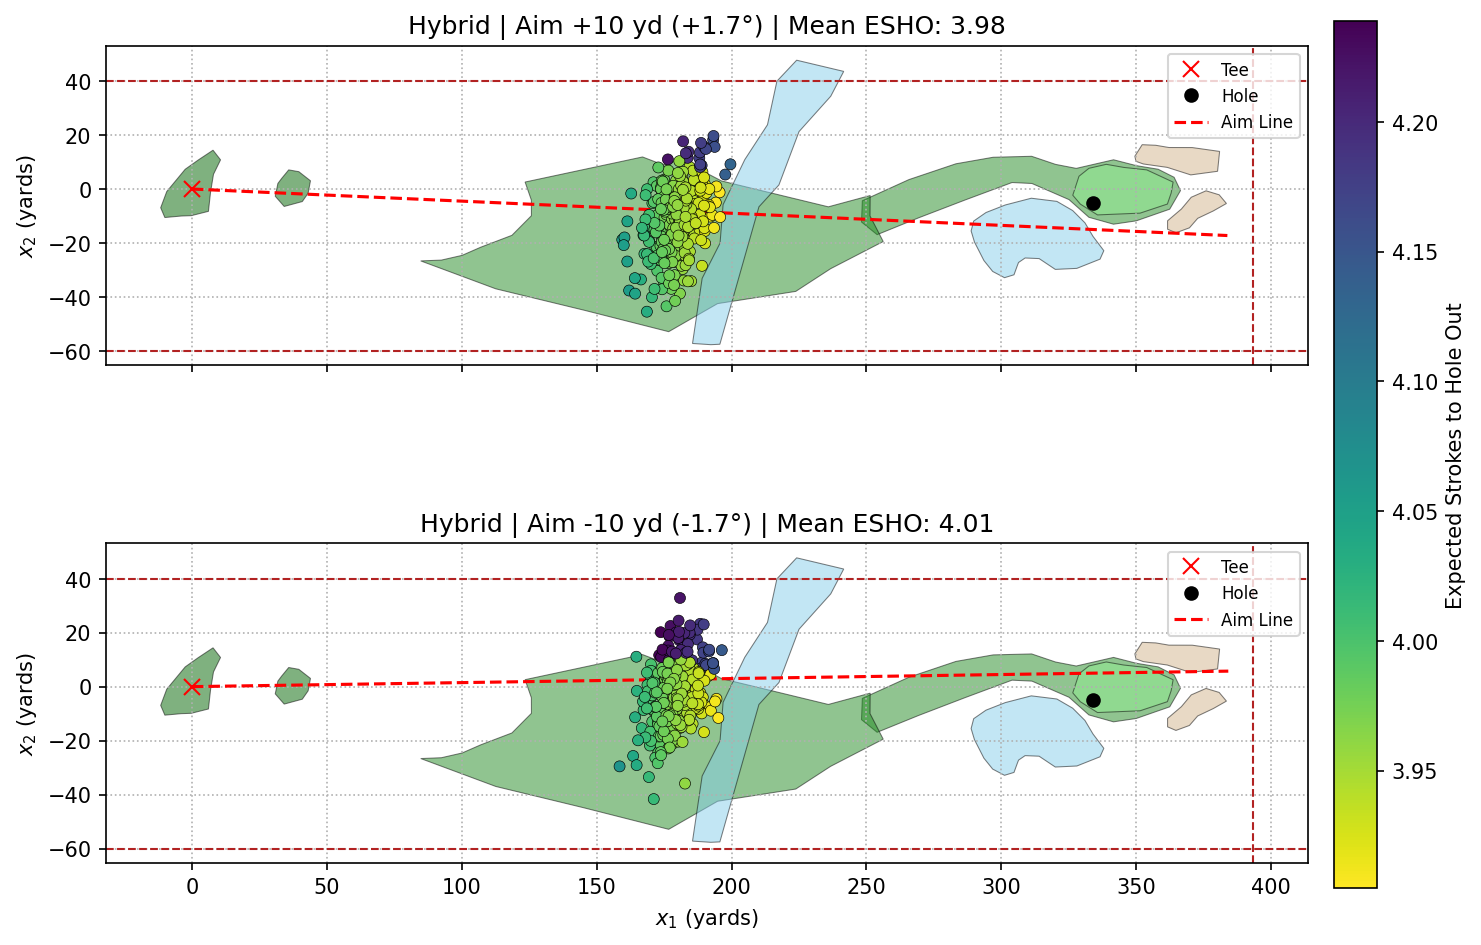
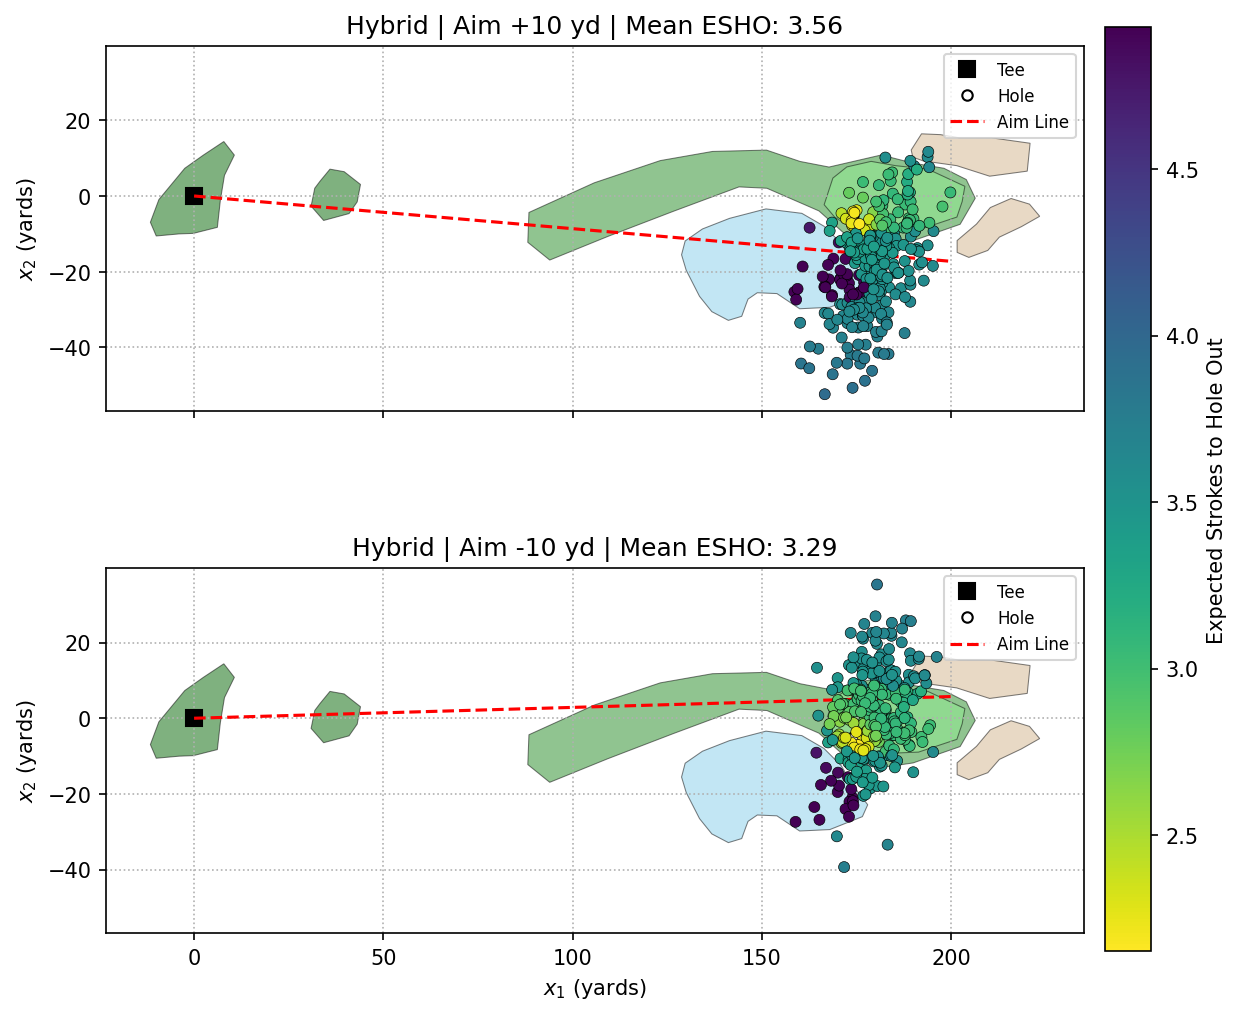
Rebuild shot-outcomes figure on the raw par-3-scale hole, not Par-4
The prior version used core.py's shifted/extended Par-4 pipeline
(394y tee-to-pin), not the original notebook's raw, unshifted hole_9
geometry (~200y) that the sketch was based on. Rebuilt on the raw
hole_9_data.csv + hardcoded pin (5,174), matching simulatingpar3.ipynb's
scale, while still reusing core.py's trained Broadie interpolators and
putt GPR (shift-compensated for the green query only) rather than
retraining anything.

Also: tee marker is a black square, not a red cross (red-on-green is
illegible), and dropped the degree annotation from the title (yards only).

Changed region(s): [[0.0, 0.0, 1.0, 0.982], [0.7649, 0.8286, 0.7955, 0.8593]]

diff --git a/Parallelisation/convergence/gen_shot_outcomes_par3.py b/Parallelisation/convergence/gen_shot_outcomes_par3.py
@@ -1,0 +1,179 @@
+"""Course-view shot-outcome figure, on the RAW (unshifted, un-extended) hole
+geometry — matching the original 'simulating on a par 3' notebook's scale,
+not core.py's shifted/extended Par-4 pipeline. Reuses core.py's already-
+trained Broadie interpolators and putt GPR (distance/rotation invariant, or
+frame-shift-compensated for the green) rather than retraining anything.
+
+Settings: Hybrid, aim +10y / -10y, N=300, mean ESHO printed per panel.
+Both panels stacked, sharing one (reversed) colour scale, rotated 90 deg
+clockwise. Tee marked with a black square (no red-on-green). Yards only,
+no degree annotation.
+"""
+from __future__ import annotations
+
+import types
+
+import matplotlib
+matplotlib.use("Agg")
+import matplotlib.pyplot as plt
+import numpy as np
+import pandas as pd
+from shapely import wkt as shapely_wkt
+from shapely.affinity import affine_transform
+from shapely.geometry import Point
+
+import core
+
+CLUB = "Hybrid"
+AIMS = [10.0, -10.0]
+N = 300
+Y_SHIFT = 160.0  # core.py's putt GPR was trained on hole_9 coords shifted +160y
+np.random.seed(0)
+
+ROT = [0, 1, -1, 0, 0, 0]  # 90 deg clockwise: (x, y) -> (y, -x)
+
+
+def rot_pt(pt):
+    x, y = pt
+    return (y, -x)
+
+
+# ---------------------------------------------------------------------------
+# 1. Reusable pieces from core.py's already-trained pipeline (frame-agnostic:
+#    Broadie interpolators are distance-based; the putt GPR needs a +160y
+#    shift to match its training frame, handled in evaluate_shot_raw below).
+# ---------------------------------------------------------------------------
+trained = core.build_hole(gp_training_iter=100)
+
+# ---------------------------------------------------------------------------
+# 2. Raw (unshifted) hole geometry + tee/pin, exactly as the original notebook.
+# ---------------------------------------------------------------------------
+data_dir = core._DEFAULT_DATA_DIR
+hole_9_raw = pd.read_csv(data_dir / "hole_9_data.csv")
+hole_9_raw["geometry"] = hole_9_raw["WKT"].apply(shapely_wkt.loads)
+
+teeboxes = hole_9_raw[hole_9_raw["lie"].str.contains("tee", case=False)].copy()
+green_row = hole_9_raw[hole_9_raw["lie"] == "green"].iloc[0]
+green_polygon = shapely_wkt.loads(green_row["WKT"])
+green_centre = green_polygon.centroid.coords[0]
+
+teeboxes["centroid"] = teeboxes["geometry"].apply(lambda g: g.centroid.coords[0])
+teeboxes["dist_to_green"] = teeboxes["centroid"].apply(
+    lambda pt: np.linalg.norm(np.array(pt) - np.array(green_centre)))
+tee_point = teeboxes.loc[teeboxes["dist_to_green"].idxmax()]["centroid"]
+pin = (5.0, 174.0)  # matches the original notebook's hardcoded pin
+
+ns = types.SimpleNamespace(
+    green_polygon=green_polygon,
+    bunker_polygons=[shapely_wkt.loads(r.WKT) for r in hole_9_raw[hole_9_raw.lie == "bunker"].itertuples()],
+    water_polygons=[shapely_wkt.loads(r.WKT) for r in hole_9_raw[hole_9_raw.lie == "water_hazard"].itertuples()],
+    fairway_polygons=[shapely_wkt.loads(r.WKT) for r in hole_9_raw[hole_9_raw.lie == "fairway"].itertuples()],
+)
+
+
+def get_lie_category_raw(point):
+    pt = Point(point)
+    if ns.green_polygon.contains(pt):
+        return "green"
+    if any(p.contains(pt) for p in ns.water_polygons):
+        return "water"
+    if any(p.contains(pt) for p in ns.bunker_polygons):
+        return "bunker"
+    if any(p.contains(pt) for p in ns.fairway_polygons):
+        return "fairway"
+    return "rough"
+
+
+def evaluate_shot_raw(point, starting_point, target):
+    lie = get_lie_category_raw(point)
+    if lie == "green":
+        shifted = (point[0], point[1] + Y_SHIFT)
+        return core.evaluate_on_green(shifted, trained.putt_model, trained.putt_likelihood)
+    elif lie == "water":
+        drop = core._get_water_drop(starting_point, point, ns.water_polygons)
+        if drop is not None:
+            return 1.0 + core.evaluate_broadie(drop, target, "rough", trained.broadie_interpolators)
+        return float("nan")
+    else:
+        broadie_lie = {"bunker": "sand"}.get(lie, lie)
+        return core.evaluate_broadie(point, target, broadie_lie, trained.broadie_interpolators)
+
+
+# ---------------------------------------------------------------------------
+# 3. Simulate
+# ---------------------------------------------------------------------------
+total_distance = float(np.linalg.norm(np.array(pin) - np.array(tee_point)))
+mu = trained.club_distributions[CLUB]["mean"]
+cov = trained.club_distributions[CLUB]["cov"]
+
+
+def simulate(aim_offset):
+    angle_deg = float(np.degrees(np.arctan(aim_offset / total_distance)))
+    samples = np.random.multivariate_normal(mu, cov, size=N)
+    landings, esho = [], []
+    for shot in samples:
+        lp = core.rotation_translator(float(shot[0]), float(shot[1]), angle_deg, tee_point, pin)
+        landings.append(lp)
+        es = evaluate_shot_raw(lp, tee_point, pin)
+        esho.append(es + 1.0 if not np.isnan(es) else np.nan)
+    return np.array(landings), np.array(esho)
+
+
+results = [(aim, *simulate(aim)) for aim in AIMS]
+all_esho = np.concatenate([r[2] for r in results])
+vmin, vmax = np.nanmin(all_esho), np.nanmax(all_esho)
+
+# ---------------------------------------------------------------------------
+# 4. Plot: stacked, shared colour scale, rotated 90 deg clockwise
+# ---------------------------------------------------------------------------
+fig, axes = plt.subplots(2, 1, figsize=(9, 8), sharex=True, sharey=True)
+fig.subplots_adjust(hspace=0.3)
+cmap = "viridis_r"
+
+for ax, (aim, landings, esho) in zip(axes, results):
+    for _, row in hole_9_raw.iterrows():
+        geom = affine_transform(row["geometry"], ROT)
+        color = core._LIE_COLORS.get(row["lie"], "lightgrey")
+        polys = geom.geoms if geom.geom_type == "MultiPolygon" else [geom]
+        for poly in polys:
+            x, y = poly.exterior.xy
+            ax.fill(x, y, alpha=0.5, fc=color, ec="black", linewidth=0.5)
+
+    ox, oy = rot_pt(tee_point)
+    px, py = rot_pt(pin)
+    ax.plot(ox, oy, marker="s", color="black", markersize=8, linestyle="None", label="Tee")
+    ax.plot(px, py, "ko", markersize=5, label="Hole", markerfacecolor="white", markeredgecolor="black")
+
+    angle_deg = float(np.degrees(np.arctan(aim / total_distance)))
+    angle_rad = np.radians(angle_deg)
+    direction = np.array(pin) - np.array(tee_point)
+    unit_dir = direction / np.linalg.norm(direction)
+    aim_dir = np.array([
+        [np.cos(angle_rad), -np.sin(angle_rad)],
+        [np.sin(angle_rad), np.cos(angle_rad)],
+    ]) @ np.array([0, 1])
+    aim_vec_global = np.array([
+        unit_dir[0] * aim_dir[1] - unit_dir[1] * aim_dir[0],
+        unit_dir[1] * aim_dir[1] + unit_dir[0] * aim_dir[0],
+    ])
+    aim_end = np.array(tee_point) + aim_vec_global * total_distance * 1.15
+    ax_e, ay_e = rot_pt(tuple(aim_end))
+    ax.plot([ox, ax_e], [oy, ay_e], "r--", linewidth=1.5, label="Aim Line", zorder=3)
+
+    rl = np.array([rot_pt(p) for p in landings])
+    sc = ax.scatter(rl[:, 0], rl[:, 1], c=esho, cmap=cmap, vmin=vmin, vmax=vmax,
+                     s=28, edgecolors="k", linewidths=0.3, zorder=10)
+
+    mean_esho = float(np.nanmean(esho))
+    ax.set_title(f"{CLUB} | Aim {aim:+.0f} yd | Mean ESHO: {mean_esho:.2f}")
+    ax.set_ylabel("$x_2$ (yards)")
+    ax.set_aspect("equal")
+    ax.grid(True, linestyle=":")
+    ax.legend(loc="upper right", fontsize=8)
+
+axes[-1].set_xlabel("$x_1$ (yards)")
+fig.colorbar(sc, ax=axes, label="Expected Strokes to Hole Out", fraction=0.045, pad=0.02)
+
+out = "../../untitled folder/On_Par/images/shot_outcomes_stacked.png"
+plt.savefig(out, dpi=150, bbox_inches="tight")
+print("saved", out)

diff --git a/untitled folder/On_Par/JQASdraft1.tex b/untitled folder/On_Par/JQASdraft1.tex
@@ -362,7 +362,7 @@ In order to evaluate the success of a strategy in approaching the green, we must
 \begin{figure}[htbp]
     \centering
     \includegraphics[width=0.75\linewidth]{images/shot_outcomes_stacked.png}
-    \caption{Simulated outcomes for a single shot type (Hybrid, $N=300$) at two aimpoints, $\aimpoint=+10$y (top) and $\aimpoint=-10$y (bottom), sharing one colour scale. Each landing is coloured by its expected strokes to hole out, showing how the same dispersion pattern is scored differently depending on where it lands relative to the green, hazards, and the OB boundary.}
+    \caption{Simulated outcomes for a single shot type (Hybrid, $N=300$) at two aimpoints, $\aimpoint=+10$y (top) and $\aimpoint=-10$y (bottom), sharing one colour scale. Each landing is coloured by its expected strokes to hole out, showing how the same dispersion pattern is scored differently depending on where it lands relative to the green and hazards.}
     \label{fig:both}
 \end{figure}
 
